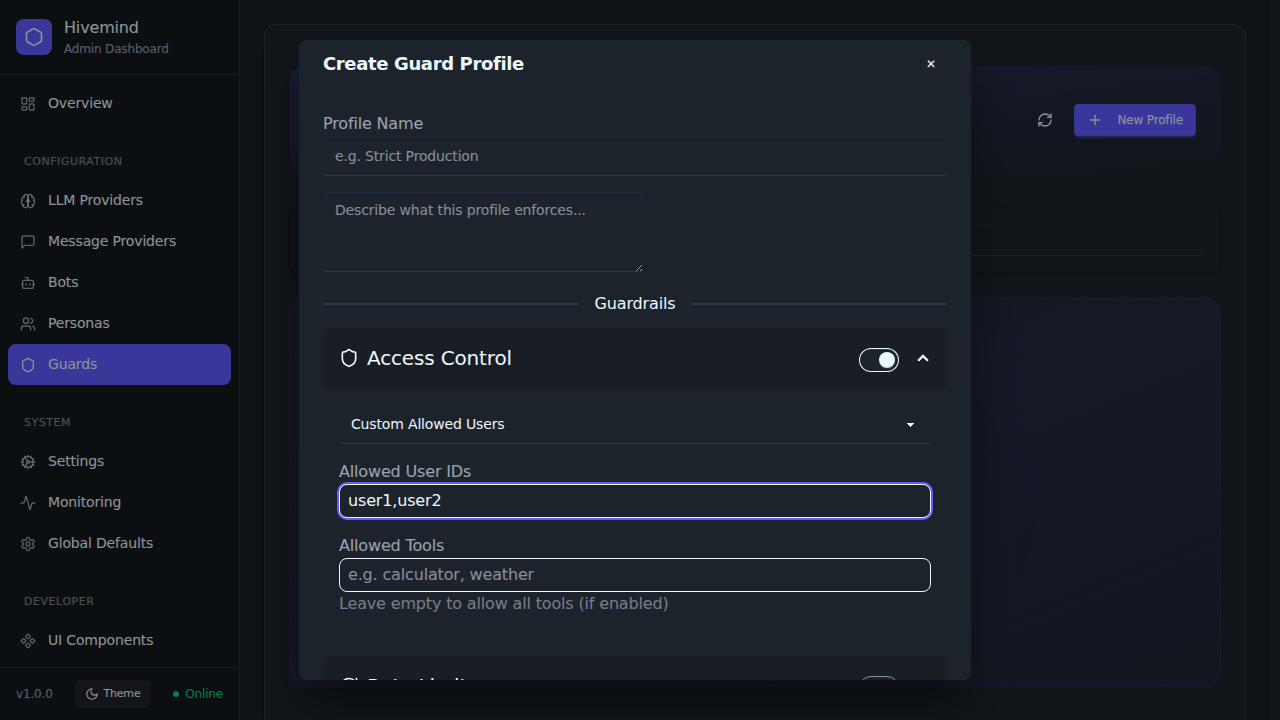
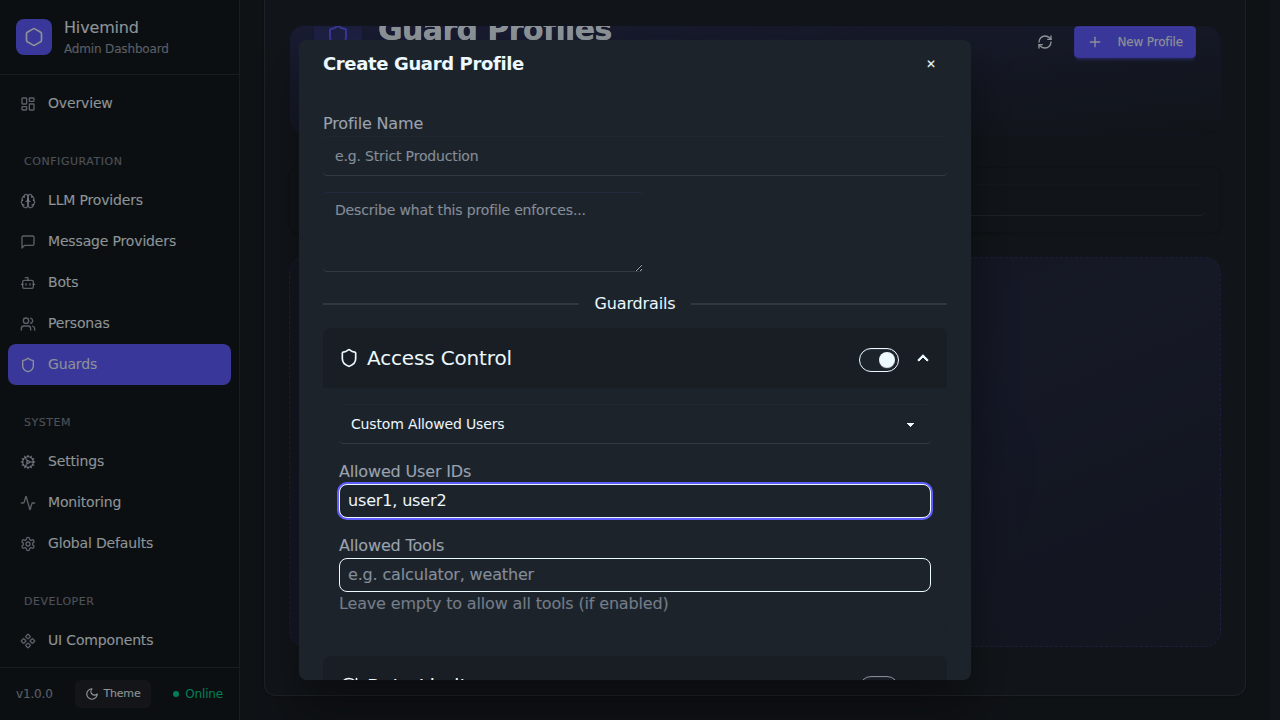
Refiner (Edge Case Test Coverage Gaps): Fix rendering error and input format (#1488)
* Rebase resolve

* feat(CommaSeparatedInput): maxTokenLength prop and normalize prop

- maxTokenLength: rejects tokens exceeding the specified character count
- normalize: 'lowercase' | 'uppercase' | 'trim' | custom fn applied before
  dedup check so 'Foo' and 'foo' are treated as the same token when normalizing

* Fix CI build failure: correct GitHub icon import from lucide-react

* Rebase resolve 2

* Fix CI build failure: correct GitHub icon import from lucide-react

---------

diff --git a/src/client/src/components/Common/CommaSeparatedInput.tsx b/src/client/src/components/Common/CommaSeparatedInput.tsx
@@ -166,22 +166,14 @@ export const CommaSeparatedInput: React.FC<CommaSeparatedInputProps> = ({
   };
 
   const handleInputChange = (e: React.ChangeEvent<HTMLInputElement>) => {
-    const newVal = e.target.value;
-    if (newVal.includes(',')) {
-      const parts = newVal.split(',');
-      const textToCommit = parts.slice(0, -1).join(',');
-      const remainingText = parts[parts.length - 1];
 
-      if (textToCommit.trim()) {
-        commitInput(textToCommit);
-      }
-      setInputValue(remainingText);
-    } else {
-      setInputValue(newVal);
-      setShowSuggestions(true);
-      if (internalError) {
-        setInternalError(null);
-      }
+    const val = e.target.value;
+    // Automatically add space after comma if typed directly
+    const formattedVal = val.replace(/,([^\s])/g, ', $1');
+    setInputValue(formattedVal);
+    setShowSuggestions(true);
+    if (internalError) {
+      setInternalError(null);
     }
   };
 

diff --git a/src/client/src/pages/GuardsPage.tsx b/src/client/src/pages/GuardsPage.tsx
@@ -195,7 +195,7 @@ const GuardsPage: React.FC = () => {
       <PageHeader
         title="Guard Profiles"
         description="Manage security and access control profiles for bots"
-        icon={<Shield />}
+        icon={<Shield className="w-6 h-6" />}
         actions={
           <div className="flex gap-2">
             <button onClick={fetchProfiles} className="btn btn-ghost btn-sm" disabled={loading} title="Refresh">

diff --git a/src/message/helpers/processing/shouldProcessMessage.ts b/src/message/helpers/processing/shouldProcessMessage.ts
@@ -1,8 +1,5 @@
-import debugFn from 'debug';
 import messageConfig from '@config/messageConfig';
 import type { IMessage } from '@message/interfaces/IMessage';
-
-const debug = debugFn('hivemind:message:shouldProcessMessage');
 
 /**
  * Returns the minimum interval in milliseconds for processing messages.
